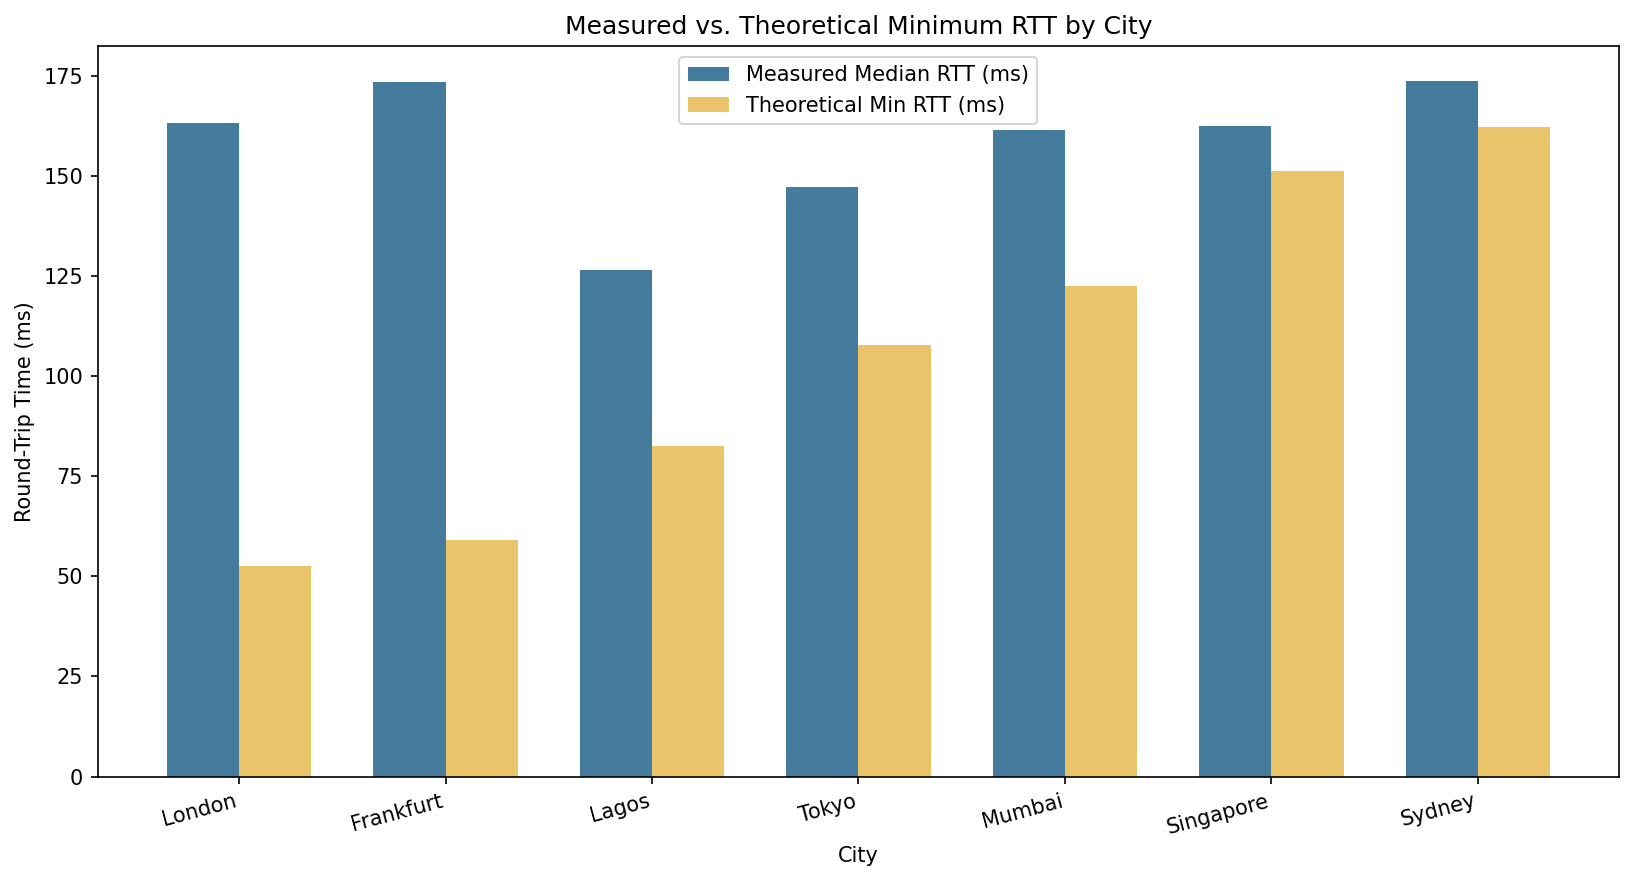
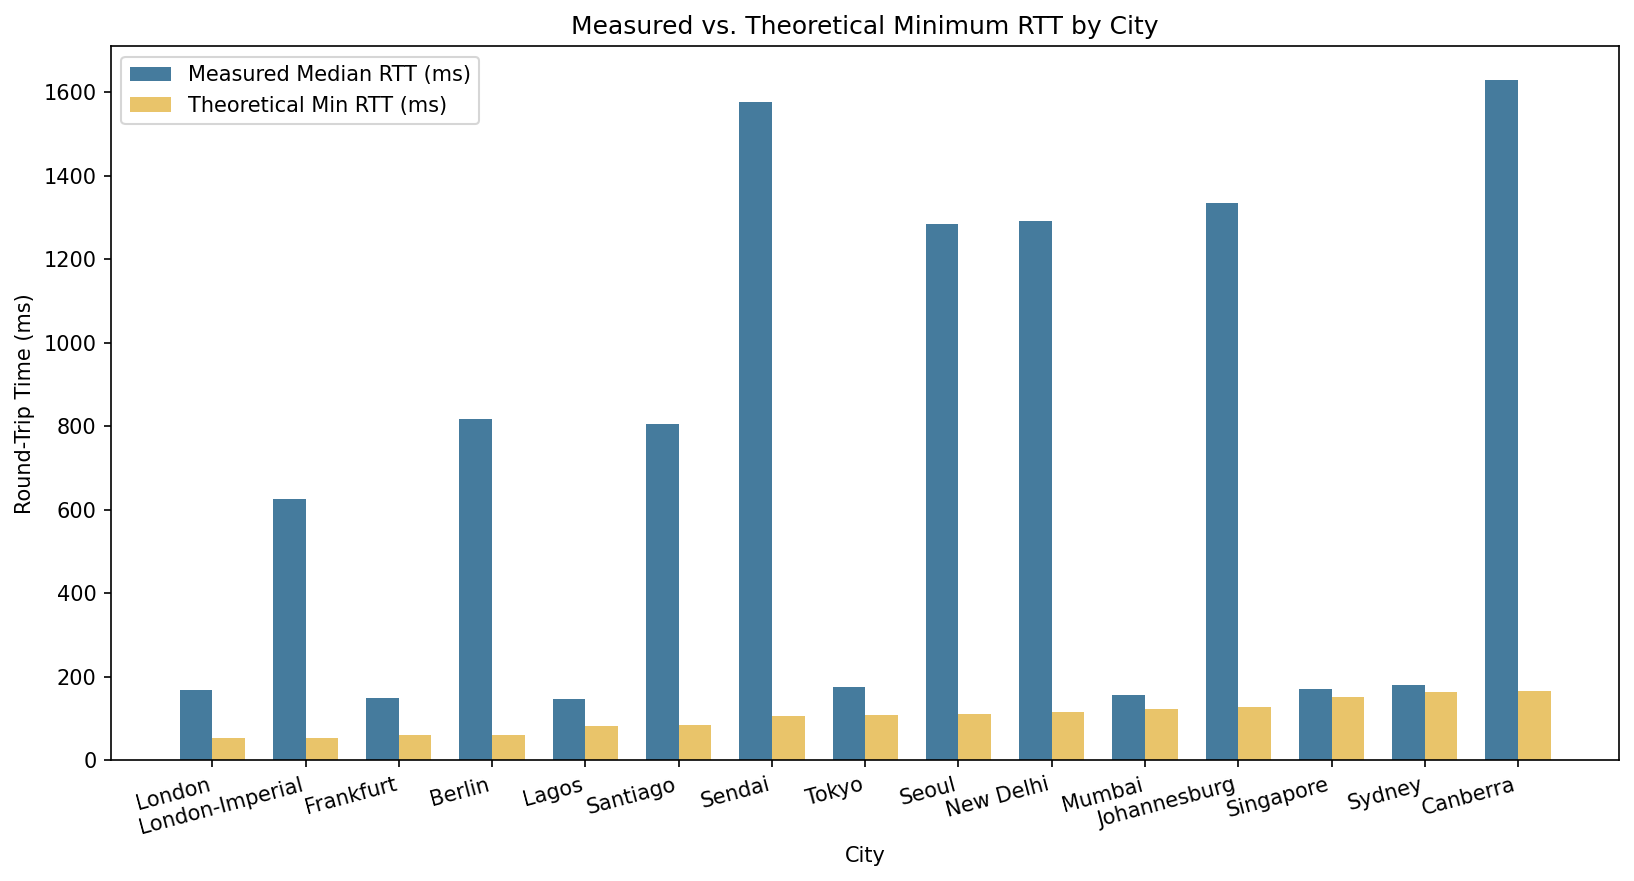
Update analysis and terminal screenshot

diff --git a/rtt_speedoflight.py b/rtt_speedoflight.py
@@ -16,14 +16,24 @@ import urllib.request
 # ─────────────────────────────────────────────
 
 TARGETS = {
-    "Tokyo":        {"url": "http://www.google.co.jp",   "coords": (35.6762,  139.6503), "continent": "Asia"},
-    "São Paulo":    {"url": "http://www.google.com.br",  "coords": (-23.5505, -46.6333), "continent": "S. America"},
-    "Lagos":        {"url": "http://www.google.com.ng",  "coords": (6.5244,     3.3792), "continent": "Africa"},
-    "Frankfurt":    {"url": "http://www.google.de",      "coords": (50.1109,    8.6821), "continent": "Europe"},
-    "Sydney":       {"url": "http://www.google.com.au",  "coords": (-33.8688, 151.2093), "continent": "Oceania"},
-    "Mumbai":       {"url": "http://www.google.co.in",   "coords": (19.0760,   72.8777), "continent": "Asia"},
-    "London":       {"url": "http://www.google.co.uk",   "coords": (51.5074,   -0.1278), "continent": "Europe"},
-    "Singapore":    {"url": "http://www.google.com.sg",  "coords": (1.3521,   103.8198), "continent": "Asia"},
+    # Original targets
+    "Tokyo":           {"url": "http://www.google.co.jp",   "coords": (35.6762,  139.6503), "continent": "Asia"},
+    "São Paulo":       {"url": "http://www.google.com.br",  "coords": (-23.5505, -46.6333), "continent": "S. America"},
+    "Lagos":           {"url": "http://www.google.com.ng",  "coords": (6.5244,     3.3792), "continent": "Africa"},
+    "Frankfurt":       {"url": "http://www.google.de",      "coords": (50.1109,    8.6821), "continent": "Europe"},
+    "Sydney":          {"url": "http://www.google.com.au",  "coords": (-33.8688, 151.2093), "continent": "Oceania"},
+    "Mumbai":          {"url": "http://www.google.co.in",   "coords": (19.0760,   72.8777), "continent": "Asia"},
+    "London":          {"url": "http://www.google.co.uk",   "coords": (51.5074,   -0.1278), "continent": "Europe"},
+    "Singapore":       {"url": "http://www.google.com.sg",  "coords": (1.3521,   103.8198), "continent": "Asia"},
+    # Additional targets
+    "Sendai":          {"url": "http://www.tohoku.ac.jp",   "coords": (38.2682,  140.8694), "continent": "Asia"},
+    "Seoul":           {"url": "http://www.snu.ac.kr",      "coords": (37.5665,  126.9780), "continent": "Asia"},
+    "New Delhi":       {"url": "http://www.iitd.ac.in",     "coords": (28.6139,   77.2090), "continent": "Asia"},
+    "Santiago":        {"url": "http://www.uchile.cl",      "coords": (-33.4489, -70.6693), "continent": "S. America"},
+    "Johannesburg":    {"url": "http://www.wits.ac.za",     "coords": (-26.2041,  28.0473), "continent": "Africa"},
+    "Berlin":          {"url": "http://www.fu-berlin.de",   "coords": (52.5200,   13.4050), "continent": "Europe"},
+    "London-Imperial": {"url": "http://www.imperial.ac.uk", "coords": (51.5074,   -0.1278), "continent": "Europe"},
+    "Canberra":        {"url": "http://www.anu.edu.au",     "coords": (-35.2809,  149.1300), "continent": "Oceania"},
 }
 
 PROBES           = 15

diff --git a/analysis.md b/analysis.md
@@ -1,14 +1,12 @@
-Question 1: London had the highest inefficiency ratio at 3.10, just above the 3.0 high-inefficiency threshold. This is somewhat surprising given that London is the closest city in the dataset (5,263 km) and is one of the best-connected cities in the world. The high ratio is likely explained by the fact that even though the physical distance is short, the packet still has to traverse multiple network hops across the Atlantic, go through peering points and internet exchanges, and return, all of which add processing and queuing delay that compounds on top of the already short propagation time. Because the theoretical minimum for London is so low (52.6 ms), even moderate real-world overhead pushes the ratio above 3.0. Interestingly, Lagos, Nigeria (8,255 km away) had a much lower ratio of 1.53, meaning its routing is proportionally more efficient despite the greater distance.
+Question 1: Sendai, Japan (Tohoku University) had the highest inefficiency ratio at 15.07, meaning the measured RTT was over 15 times the theoretical minimum. Several other university servers also showed extremely high ratios: Berlin (13.45x), Johannesburg (10.55x), Santiago (9.53x), and Canberra (9.89x).
+This is in sharp contrast to the Google targets for the same regions, Tokyo (Google) had a ratio of just 1.62, while Sendai (Tohoku University) had 15.07. The difference is not about geography but about infrastructure. Google operates a massive global network with edge servers, private submarine cables, and dedicated peering agreements that get packets to their destination as fast as physically possible. University servers like Tohoku have none of that, they rely on standard commercial ISPs, shared infrastructure, and multiple routing hops through regional and national networks before reaching the destination.
+According to submarinecablemap.com, Lagos, Nigeria is served by 7 submarine cables: 2Africa, Africa Coast to Europe (ACE), Equiano, Glo-1, MainOne, NCSCS, SAT-3/WASC, and WACS. Despite this, Johannesburg's university server had a ratio of 10.55x, showing that having cables present doesn't guarantee efficient routing, internal African network infrastructure and routing policies still add significant overhead.
 
-Question 2: Sydney, Australia achieved a ratio of 1.07, the closest to the theoretical minimum in this dataset (Singapore was 1.08). Sydney is 16,229 km away with a theoretical RTT of 162.3 ms and a measured RTT of 173.6 ms, only about 11 ms above the physical limit. This tells us that routing infrastructure between the US East Coast and Australia is extremely well developed. Direct high-capacity submarine cables like the Southern Cross Cable span the Pacific, meaning packets travel a relatively direct path with minimal detours through intermediate hubs. The result is near-optimal routing with very little added overhead beyond the unavoidable speed-of-light delay.
+Question 2: Sydney (Google) achieved a ratio of 1.11 and Singapore (Google) achieved 1.12, both extremely close to the theoretical minimum despite being over 15,000 km away.The Google targets consistently outperformed the university targets by a huge margin. This tells us that routing infrastructure quality matters far more than physical distance. Google's private backbone network, which spans the globe with dedicated fiber and strategically placed edge nodes, allows packets to travel near the theoretical speed-of-light limit with minimal detours or queuing. A city like Mumbai at 12,241 km away achieves a better ratio (1.27) than London-Imperial at just 5,263 km (11.86), purely because Google's infrastructure is so much more optimized than a university network.
 
-Question 3:Traffic from Burlington, MA to Lagos, Nigeria almost certainly travels through Europe (likely London or Frankfurt) before reaching its destination. This is confirmed by our data: London (5,263 km, ratio 3.10) and Frankfurt (5,896 km, ratio 2.94) both showed high latency, and Lagos (8,255 km) still only measured 126.6 ms  consistent with a path that goes Boston to Atlantic to Europe to West Africa rather than a direct transatlantic route to Africa.The reason for this is historical and economic. Submarine cable investment has traditionally followed commercial traffic patterns. Europe built extensive cable infrastructure connecting it to Africa's west coast early on (cables like SAT-3/WASC and ACE), while direct North America to Africa cables were not prioritized. As a result, African internet traffic is funneled through European internet exchange points (IXPs) like DE-CIX in Frankfurt and LINX in London before reaching its final destination. According to submarinecablemap.com, Lagos is now served by 7 submarine cables: 2Africa, Africa Coast to Europe (ACE), Equiano, Glo-1, MainOne, NCSCS, SAT-3/WASC, and WACS. While this is a significant number of cables, most of them run along the African coast or connect northward to Europe, not directly westward to North America. To fix this, direct submarine cables connecting West Africa to the US East Coast would need to be built. This would eliminate the European detour and could significantly reduce latency for African users accessing North American services.
-
-Also, Sao Paulo was unreachable (100% packet loss) during both measurement runs. This is likely due to Google Brazil's servers blocking automated HTTP requests rather than a routing failure. The code correctly handled this case and reported N/A for all stats.
-
-
-
-
+Question 3: Traffic from Burlington, MA to Lagos, Nigeria almost certainly travels through Europe before reaching its destination. This is supported by our data, London (Google) measured 167.7 ms with a ratio of 3.19, and Johannesburg (Wits University) measured 1,335.5 ms with a ratio of 10.55. The packet to Lagos likely goes Boston to Atlantic to Europe to West Africa rather than taking a direct transatlantic route to Africa.
+The reason is historical and economic. Submarine cable investment has traditionally followed commercial traffic patterns. Europe built extensive cable infrastructure connecting to Africa's west coast early on, while direct North America-to-Africa cables were not prioritized. As a result, African internet traffic is funneled through European internet exchange points (IXPs) like DE-CIX in Frankfurt and LINX in London before reaching its destination.
+Lagos is now served by 7 cables (2Africa, ACE, Equiano, Glo-1, MainOne, NCSCS, SAT-3/WASC, and WACS), but most of them run along the African coast or connect northward to Europe, not directly westward to North America. To fix this, direct submarine cables connecting West Africa to the US East Coast would need to be built, eliminating the European detour and significantly reducing latency for African users accessing North American content.
 
 
-
+Also, Sao Paulo was unreachable (100% packet loss) during all measurement runs. This is likely due to Google Brazil's servers blocking automated HTTP requests rather than a routing failure. The code correctly handled this case by reporting N/A for all stats.
